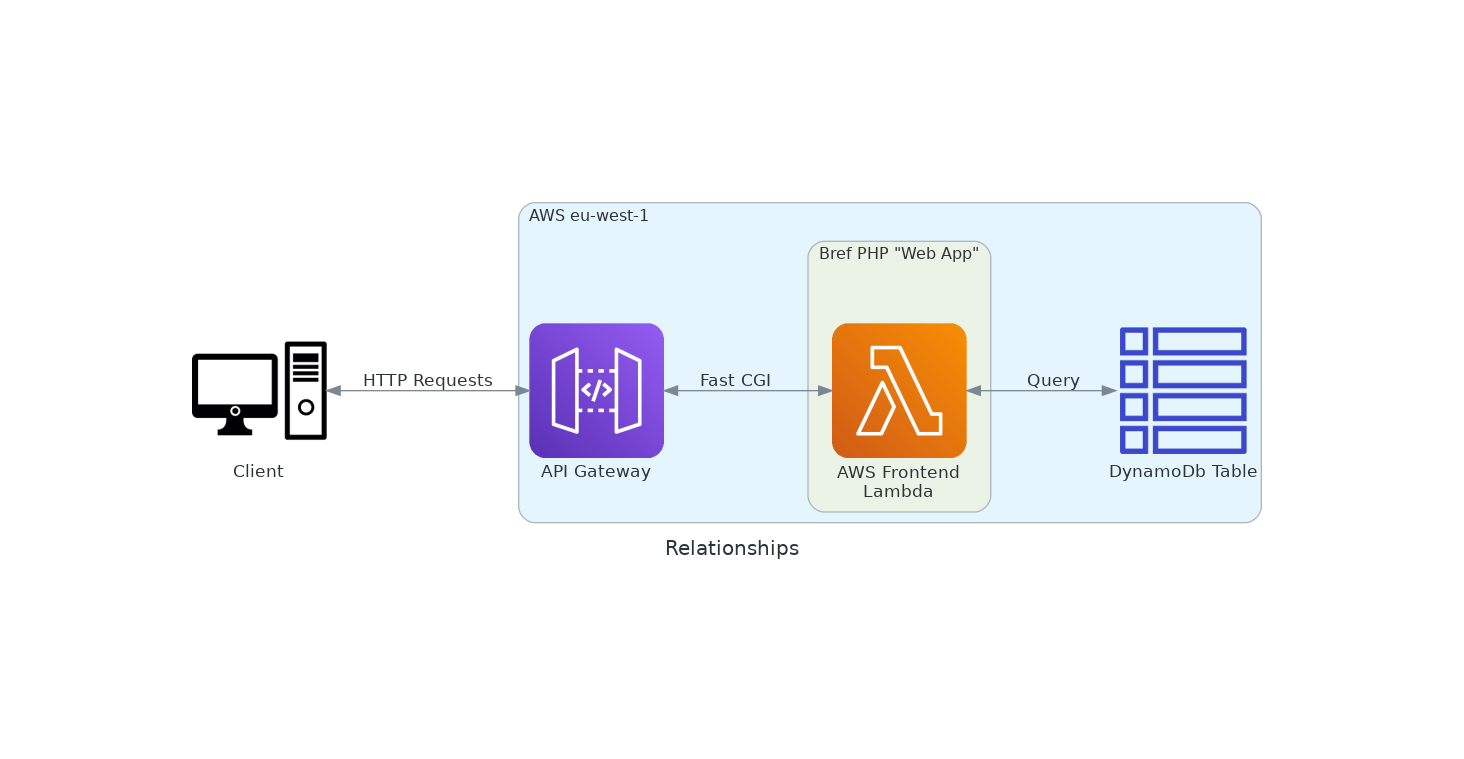
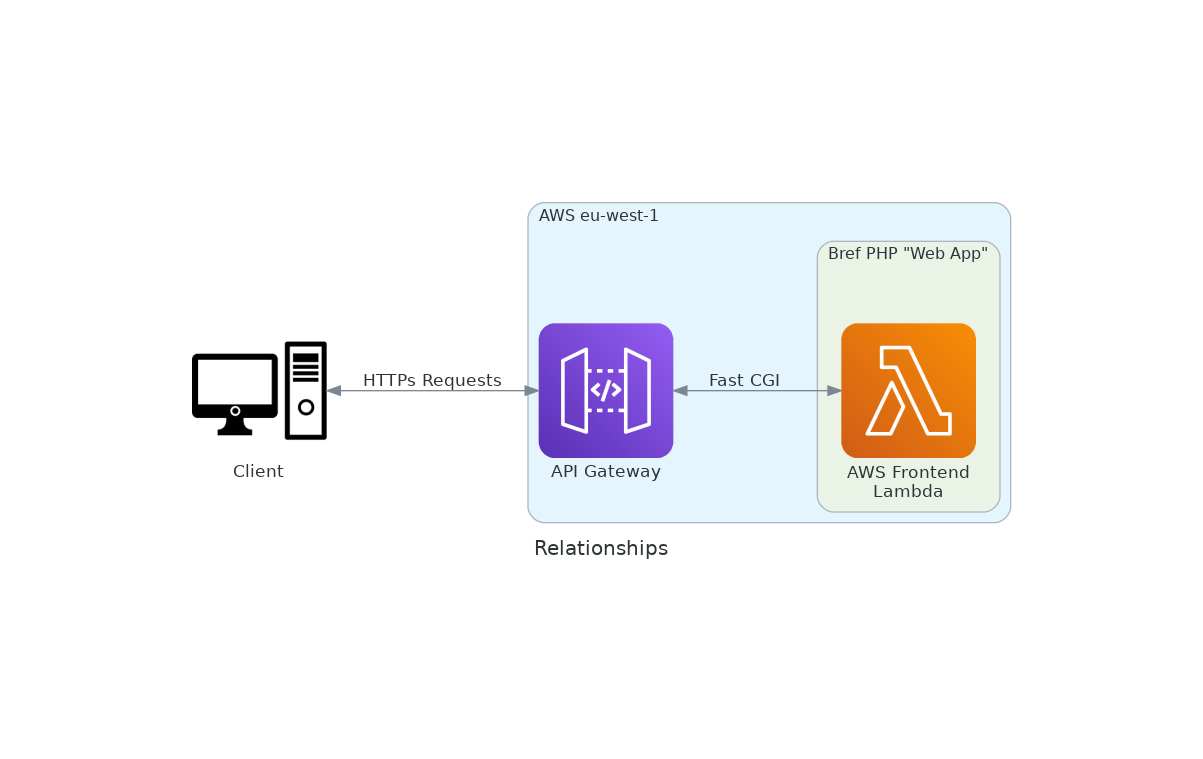
Add in new charts

Changed region(s): [[0.123, 0.2424, 0.8612, 0.7576], [0.1538, 0.6061, 0.2461, 0.6364]]

diff --git a/brum-php-jan-2022/brefphp/diagrams/bref_building_something_2_diagram.py b/brum-php-jan-2022/brefphp/diagrams/bref_building_something_2_diagram.py
@@ -1,6 +1,6 @@
 from diagrams import Diagram, Edge, Cluster
 from diagrams.aws.compute import Lambda
-from diagrams.aws.network import APIGateway, CloudFront
+from diagrams.aws.network import APIGateway
 from diagrams.aws.database import DynamodbTable
 from diagrams.aws.storage import S3
 from diagrams.custom import Custom
@@ -9,27 +9,15 @@ import os
 base_dir = os.path.dirname(__file__)
 
 with Diagram("Relationships", filename=f"{base_dir}/bref_building_something_2_diagram", show=False):
-    with Cluster("Internet"):
-        client = Custom("Client", f'img/client.png')
-        developer = Custom("Developer", f'img/developer.png')
-
+    client = Custom("Client", f'img/client.png')
     with Cluster("AWS eu-west-1"):
-        with Cluster("Bref PHP \"Web App\" Layer"):
+        with Cluster("Bref PHP \"Web App\""):
             aws_frontend_lambda = Lambda("AWS Frontend\nLambda")
-
-        with Cluster("Bref PHP \"Console\" Layer"): 
-            aws_console_lambda = Lambda("Console\n Lambda")
-        
+     
         aws_api_gw = APIGateway("API Gateway")
         aws_dynamodb = DynamodbTable("DynamoDb Table")
-        aws_cloudfront = CloudFront("CloudFront CDN")
-        aws_static_asset_bucket = S3("Static Assets\nBucket")
     
-    
-    developer >> Edge(label="Bref CLI Console Invoke") << aws_console_lambda
-    client >> Edge(label="HTTP Requests") << aws_cloudfront
-    aws_cloudfront >> Edge(label="/*") << aws_api_gw
-    aws_cloudfront >> Edge(label="/assets/*") << aws_static_asset_bucket
-    [aws_frontend_lambda, aws_console_lambda] >> Edge(label="Query") << aws_dynamodb
+    client >> Edge(label="HTTP Requests") << aws_api_gw
+    aws_frontend_lambda >> Edge(label="Query") << aws_dynamodb
     aws_api_gw >> Edge(label="Fast CGI") << aws_frontend_lambda
 

diff --git a/brum-php-jan-2022/brefphp/diagrams/bref_building_something_3_diagram.py b/brum-php-jan-2022/brefphp/diagrams/bref_building_something_3_diagram.py
@@ -1,0 +1,35 @@
+from diagrams import Diagram, Edge, Cluster
+from diagrams.aws.compute import Lambda
+from diagrams.aws.network import APIGateway, CloudFront
+from diagrams.aws.database import DynamodbTable
+from diagrams.aws.storage import S3
+from diagrams.custom import Custom
+import os
+
+base_dir = os.path.dirname(__file__)
+
+with Diagram("Relationships", filename=f"{base_dir}/bref_building_something_3_diagram", show=False):
+    with Cluster("Internet"):
+        client = Custom("Client", f'img/client.png')
+        developer = Custom("Developer", f'img/developer.png')
+
+    with Cluster("AWS eu-west-1"):
+        with Cluster("Bref PHP \"Web App\" Layer"):
+            aws_frontend_lambda = Lambda("AWS Frontend\nLambda")
+
+        with Cluster("Bref PHP \"Console\" Layer"): 
+            aws_console_lambda = Lambda("Console\n Lambda")
+        
+        aws_api_gw = APIGateway("API Gateway")
+        aws_dynamodb = DynamodbTable("DynamoDb Table")
+        aws_cloudfront = CloudFront("CloudFront CDN")
+        aws_static_asset_bucket = S3("Static Assets\nBucket")
+    
+    
+    developer >> Edge(label="Bref CLI Console Invoke") << aws_console_lambda
+    client >> Edge(label="HTTP Requests") << aws_cloudfront
+    aws_cloudfront >> Edge(label="/*") << aws_api_gw
+    aws_cloudfront >> Edge(label="/assets/*") << aws_static_asset_bucket
+    [aws_frontend_lambda, aws_console_lambda] >> Edge(label="Query") << aws_dynamodb
+    aws_api_gw >> Edge(label="Fast CGI") << aws_frontend_lambda
+

diff --git a/brum-php-jan-2022/brefphp/diagrams/bref_building_something_1_diagram.py b/brum-php-jan-2022/brefphp/diagrams/bref_building_something_1_diagram.py
@@ -15,9 +15,7 @@ with Diagram("Relationships", filename=f"{base_dir}/bref_building_something_1_di
             aws_frontend_lambda = Lambda("AWS Frontend\nLambda")
      
         aws_api_gw = APIGateway("API Gateway")
-        aws_dynamodb = DynamodbTable("DynamoDb Table")
     
-    client >> Edge(label="HTTP Requests") << aws_api_gw
-    aws_frontend_lambda >> Edge(label="Query") << aws_dynamodb
+    client >> Edge(label="HTTPs Requests") << aws_api_gw
     aws_api_gw >> Edge(label="Fast CGI") << aws_frontend_lambda
 
